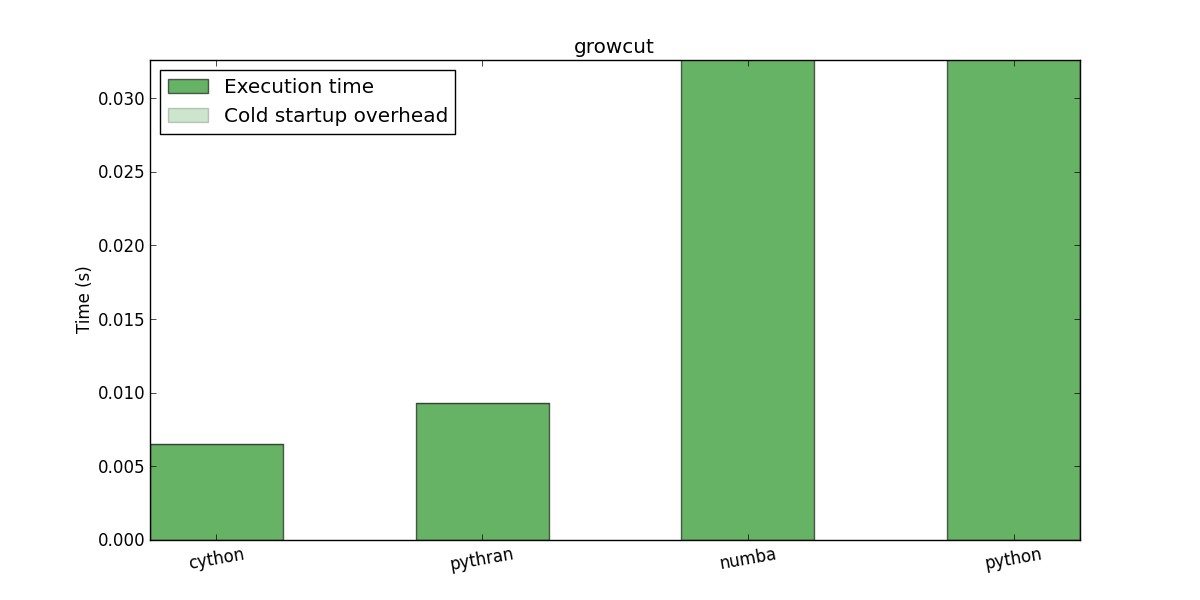
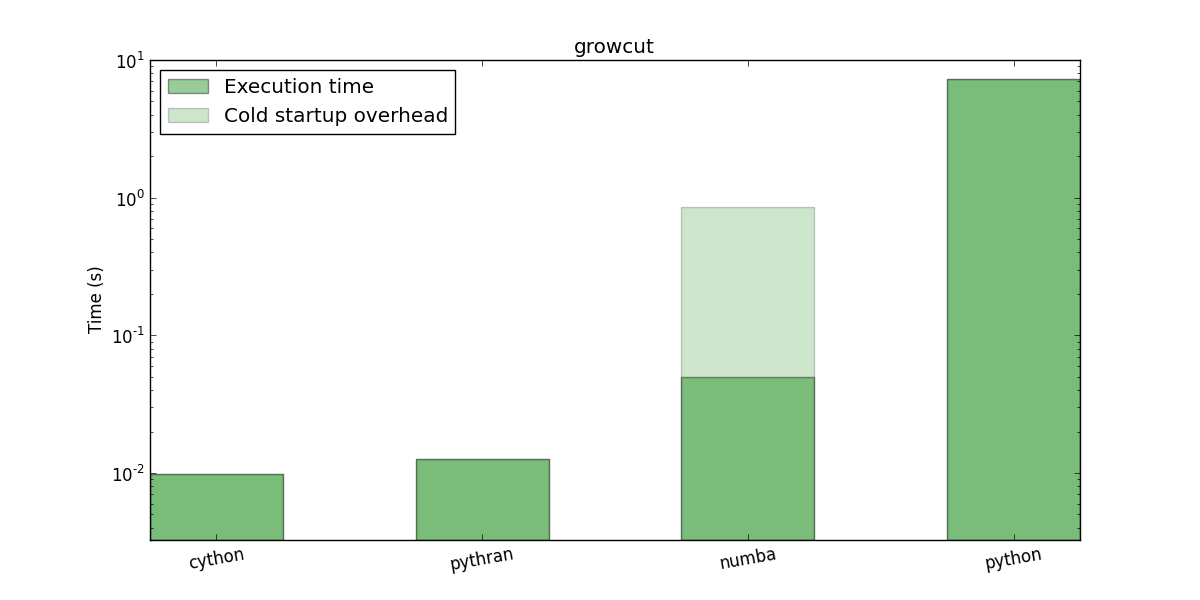
Update documentation

diff --git a/index.html b/index.html
@@ -78,8 +78,13 @@
 </h3>
 
 <p class="plot">
-  <img src="images/growcut.png"
+  
+  <img src="images/growcut_zoom_5x_best.png"
        alt="Plot for growcut" />
+  
+  <img src="images/growcut_logscale.png"
+       alt="Plot for growcut" />
+  
 </p>
 
 <table class="table table-striped table-hover">
@@ -185,8 +190,13 @@ while running this benchmark.
 </h3>
 
 <p class="plot">
-  <img src="images/julia.png"
+  
+  <img src="images/julia_zoom_5x_best.png"
        alt="Plot for julia" />
+  
+  <img src="images/julia_logscale.png"
+       alt="Plot for julia" />
+  
 </p>
 
 <table class="table table-striped table-hover">
@@ -292,8 +302,13 @@ while running this benchmark.
 </h3>
 
 <p class="plot">
-  <img src="images/pairwise.png"
+  
+  <img src="images/pairwise_zoom_5x_best.png"
        alt="Plot for pairwise" />
+  
+  <img src="images/pairwise_logscale.png"
+       alt="Plot for pairwise" />
+  
 </p>
 
 <table class="table table-striped table-hover">

diff --git a/css/custom.css b/css/custom.css
@@ -20,7 +20,8 @@
 }
 
 .plot img {
-    max-width: 80%;
+    margin: 0, 1%;
+    max-width: 48%;
 }
 
 h1:hover > a.headerlink,
